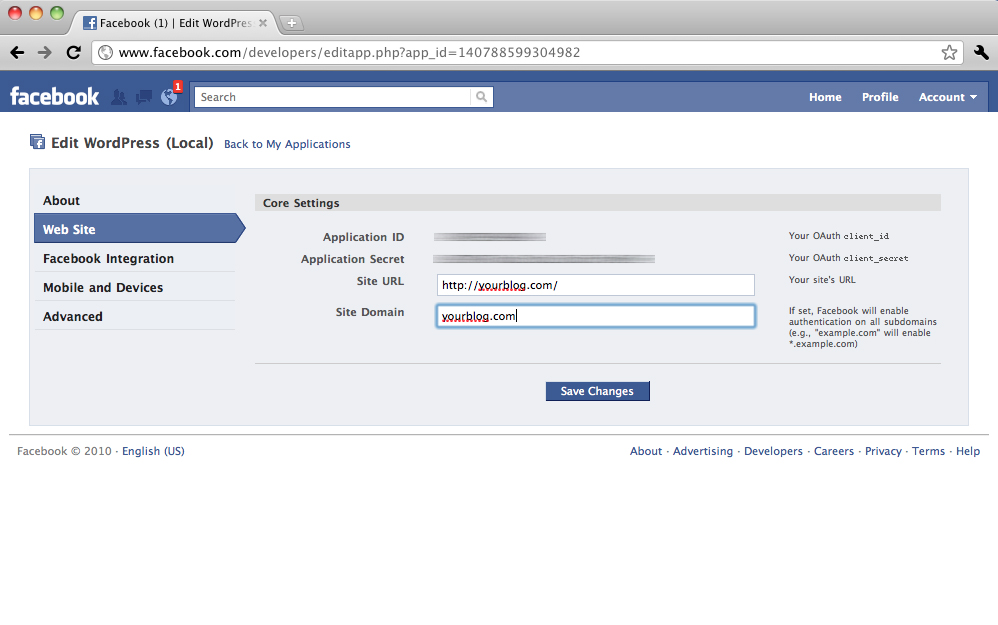
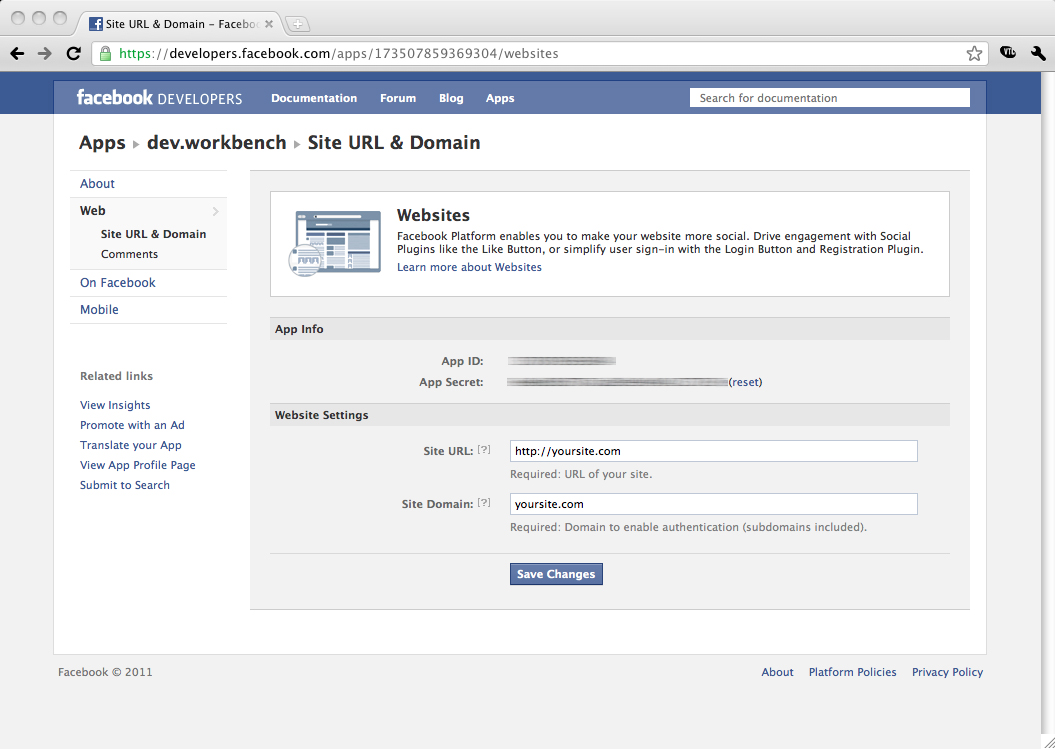
Implementing Open Graph tags the right way; updated instructinos with new screenshots

diff --git a/settings.php b/settings.php
@@ -60,11 +60,11 @@ if (!defined('ABSPATH')) exit; /* silence is golden */ ?>
       <br />
       <table class="form-table" style="width:500px; float:left; clear:none;">
         <tr>
-          <th>API Key</th>
+          <th>App ID/API Key</th>
           <td><input type="text" style="width:25em;" id="<?php echo Sharepress::OPTION_API_KEY ?>" name="<?php echo Sharepress::OPTION_API_KEY ?>" value="<?php echo htmlentities(Sharepress::api_key()) ?>" /></td>
         </tr>
         <tr>
-          <th>Application Secret</th>
+          <th>App Secret</th>
           <td><input type="text" style="width:25em;" id="<?php echo Sharepress::OPTION_APP_SECRET ?>" name="<?php echo Sharepress::OPTION_APP_SECRET ?>" value="<?php echo htmlentities(Sharepress::app_secret()) ?>" /></td>
         </tr>
         <tr>
@@ -235,6 +235,8 @@ if (!defined('ABSPATH')) exit; /* silence is golden */ ?>
       <br />
       <h3 class="title">Facebook Open Graph Tags</h3>
       
+      <?php /* ?>
+      
       <h4 class="title">For individual blog posts</h4>
       
       <p>You can configure <code>og:type</code> meta data on a post-by-post basis.
@@ -257,13 +259,12 @@ if (!defined('ABSPATH')) exit; /* silence is golden */ ?>
         </tr>
       </table>
       
-      <h4 class="title">For your other pages</h4>
+      */ ?>
       
       <p>
-        Optionally, sharepress can add Facebook open graph tags to your other pages.
-      </p>
-      <p> 
-        If your theme already does this, you can safely disable this feature of Sharepress.
+        Open Graph meta data is required for Sharepress to function. If you don't know what this
+        is, leave this feature enabled. If, however, you already have a custom solution for OG
+        meta data, you may disable this feature.
       </p>
       <p>
         If you want to test the way your pages appears to Facebook, you can do so with 
@@ -272,18 +273,19 @@ if (!defined('ABSPATH')) exit; /* silence is golden */ ?>
       
       <table class="form-table">
         <tr>
-          <th>OG:TYPE for your pages</th>
+          <th>Open Graph meta data</th>
           <td>
             <div style="margin-bottom:5px;">
               <label>
                 <input type="radio" name="<?php echo self::OPTION_SETTINGS ?>[page_og_tags]" value="on" <?php if (Sharepress::setting('page_og_tags') != 'off') echo 'checked="checked"' ?> />
-                Let Sharepress insert it
+                Let Sharepress insert it (recommended)
               </label>
               
               <span style="margin-left:50px;">
                 <label for="sharepress_home_og_type" style="cursor:help;" title="Select the Content Type that best expresses the content of your site"><code>og:type</code>&nbsp;=</label>
                 <select id="sharepress_home_og_type" name="<?php echo self::OPTION_SETTINGS ?>[page_og_type]">
-                  <?php require('og-types.php') ?>
+                  <option value="blog">blog</option>
+                  <option value="website">website</option>
                 </select>
                 <script>
                   (function($) {
@@ -301,6 +303,10 @@ if (!defined('ABSPATH')) exit; /* silence is golden */ ?>
           </td>
         </tr>
       </table>
+      
+      <p><b>Note:</b> you can override any/all of the <code>og:*</code> meta tags for your posts and pages by creating Custom Fields.
+        For example, to set the <code>og:type</code> property, just create a Custom Field named <em>og:type</em> and set its value
+        to the desired type. Learn more about <a href="http://ogp.me">OG meta data</a>. Learn more about <a href="http://codex.wordpress.org/Custom_Fields">Custom Fields</a>.</p>
       
       <br />
       <h3 class="title">Default Publishing Targets</h3>

diff --git a/core.php b/core.php
@@ -82,31 +82,52 @@ class /*@PLUGIN_LITE_CLASS@*/ Sharepress {
   } 
   
   function wp_head() {
-    global $wp_query, $post;
+    global $wpdb, $post;
     
-    if (is_single() && $wp_query->queried_object) {
-      if ($meta = get_post_meta($wp_query->queried_object->ID, self::META, true)) {
-        $copy = $post;
-        $post = $wp_query->queried_object;
-        setup_postdata($post);
-        ?>
-          <meta property="og:type" content="<?php echo ($og_type = @$meta['og_type']) ? $og_type : self::setting('default_post_og_type', 'article') ?>" />
-          <meta property="og:url" content="<?php the_permalink() ?>" />
-          <meta property="og:title" content="<?php @$meta['og_title'] ? print($meta['og_title']) : the_title() ?>" />
-          <meta property="og:image" content="<?php echo $meta['picture'] ?>" />
-          <meta property="og:site_name" content="<?php bloginfo('name') ?>" />
-        <?php
-        $post = $copy;
-      } 
+    if (self::setting('page_og_tags', 'on') == 'on') {
+      // get any values stored in meta data
+      $overrides = array();
+      
+      $query = $wpdb->get_results( $wpdb->prepare("
+        SELECT M.meta_key AS K, M.meta_value AS V
+        FROM $wpdb->postmeta M INNER JOIN $wpdb->posts P ON (M.post_ID = P.ID)
+        WHERE P.ID = %d
+      ", $post->ID) );
+      
+      foreach($query as $M) {
+        if (strpos($M->K, 'og:') === 0 || strpos($M->K, 'fb:') === 0) {
+          $overrides[trim($M->K)] = trim($M->V);
+        }
+      }
+      
+      if (is_single() || ( is_page() && !is_front_page() )) {
+        $defaults = array(
+          'og:type' => 'article',
+          'og:url' => get_permalink(),
+          'og:title' => get_the_title(),
+          'og:image' => $meta['picture'],
+          'og:site_name' => get_bloginfo('name'),
+          'fb:app_id' => get_option(self::OPTION_API_KEY)
+        );
+        
+      } else {
+        $defaults = array(
+          'og:type' => self::setting('page_og_type', 'blog'),
+          'og:url' => get_permalink(),
+          'og:title' => get_the_title(),
+          'og:site_name' => get_bloginfo('name'),
+          'og:image' => $meta['picture'],
+          'fb:app_id' => get_option(self::OPTION_API_KEY)
+        );
+        
+      }
+      
+      $og = array_merge($defaults, $overrides);
     
-    } else if (self::setting('page_og_tags')) {
-      ?>
-        <meta property="og:type" content="<?php echo self::setting('page_og_type', 'blog') ?>" />
-        <meta property="og:url" content="<?php bloginfo('siteurl') ?>" />
-        <meta property="og:image" content="<?php echo $this->get_default_picture() ?>" />
-        <meta property="og:site_name" content="<?php bloginfo('name') ?>" />
-      <?php
-    }
+      foreach($og as $property => $content) {
+        echo sprintf("<meta property=\"%s\" content=\"%s\" />\n", htmlentities($property), htmlentities($content));
+      }
+    } 
 
   }
   

diff --git a/pro.php b/pro.php
@@ -5,7 +5,7 @@ Plugin URI: http://getwpapps.com/plugins/sharepress
 Description: Sharepress publishes your content to your personal Facebook Wall and the Walls of Pages you choose.
 Author: Aaron Collegeman
 Author URI: http://aaroncollegeman.com
-Version: 1.0.20110607040425
+Version: 1.0.5
 License: GPL2
 */
 
@@ -398,14 +398,14 @@ class /*@PLUGIN_PRO_CLASS@*/ SharepressPro {
         if ($acl) {
         */
         
-          $result = Sharepress::api($page['id'].'/feed', 'POST', array(
+          $result = Sharepress::api($page['id'].'/links', 'POST', array(
             'access_token' => $page['access_token'],
             'message' => $meta['message'],
             'link' => $meta['link']
           ));
           
           /*
-          $result = Sharepress::api($page['id'].'/links', 'POST', array(
+          $result = Sharepress::api($page['id'].'/feed', 'POST', array(
             'access_token' => $page['access_token'],
             'name' => $meta['name'],
             'message' => $meta['message'],

diff --git a/pro-meta-box.php b/pro-meta-box.php
@@ -66,6 +66,7 @@ if (!defined('ABSPATH')) exit; /* silence is golden... */ ?>
 
   <div class="sharepress_advanced" style="display:none;">
   
+    <?php /*?>
     <br />
     <fieldset>
       <legend>
@@ -95,7 +96,7 @@ if (!defined('ABSPATH')) exit; /* silence is golden... */ ?>
         <input type="text" style="width:100%;" name="sharepress_meta[og_title]" id="sharepress_meta_og_title" value="<?php echo @htmlentities($meta['og_title']) ?>" />
       </p>
     </fieldset>
-        
+    */ ?>
   
     <br />
     <fieldset>

diff --git a/lite.php b/lite.php
@@ -5,7 +5,7 @@ Plugin URI: http://getwpapps.com/plugins/sharepress
 Description: Sharepress publishes your content to your personal Facebook Wall and the Walls of Pages you choose.
 Author: Aaron Collegeman
 Author URI: http://aaroncollegeman.com
-Version: 1.0.20110607040425
+Version: 1.0.5
 License: GPL2
 */
 

diff --git a/lib/facebook-sdk-3.0.1.php b/lib/facebook-sdk-3.0.1.php
@@ -33,9 +33,7 @@ class spFacebook extends spBaseFacebook
    * @see spBaseFacebook::__construct in facebook.php
    */
   public function __construct($config) {
-    if (!session_id()) {
-      @session_start();
-    }
+    @session_start();
     parent::__construct($config);
   }
 
